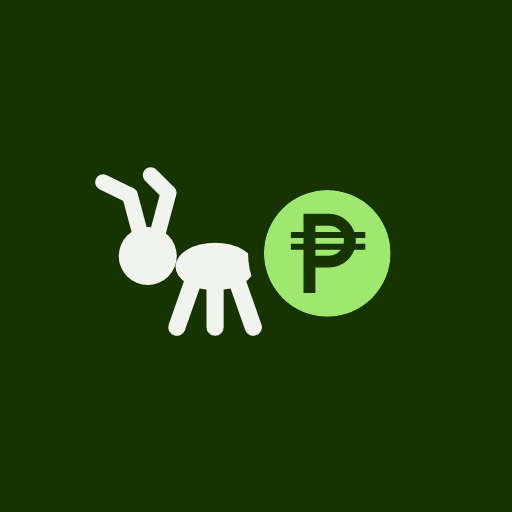
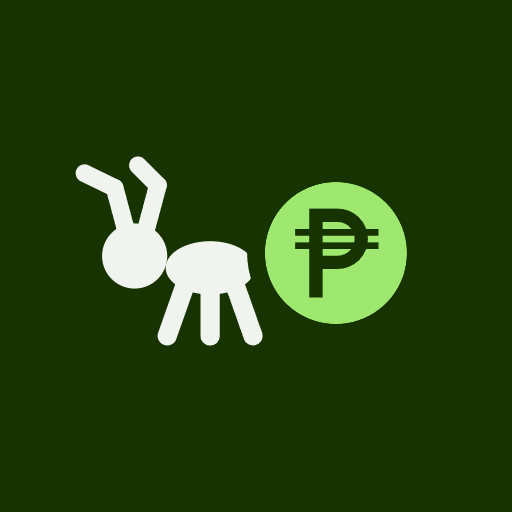
feat(pwa): hold a branded launch screen until the app draws
Opening the installed app dropped from the phone's forest splash to an empty pale page while the code loaded. Keep the mark on forest until the first real screen, then fade. A larger maskable icon fills more of Android's splash.

diff --git a/frontend/index.html b/frontend/index.html
@@ -23,6 +23,28 @@
     <title>AntTipid</title>
   </head>
   <body>
+    <!-- The installed app's launch screen, carrying on from the phone's own splash. Styled in index.css (hidden in a browser tab). -->
+    <div id="launch" role="status" aria-label="Opening AntTipid">
+      <svg viewBox="0 0 256 256" width="200" height="200" aria-hidden="true">
+        <g transform="translate(17.92 17.92) scale(0.86)">
+          <g fill="var(--background)">
+            <path d="M24 128A22 22 0 1 1 68 128A22 22 0 1 1 24 128Z"/>
+            <path d="M67 136A30 18 0 1 1 127 136A30 18 0 1 1 67 136Z"/>
+            <path d="M45.8 108.45L38.3 80.45A6 6 0 0 0 26.7 83.55L34.2 111.55A6 6 0 0 0 45.8 108.45Z"/>
+            <path d="M35.13 76.61L14.63 66.61A6 6 0 0 0 9.37 77.39L29.87 87.39A6 6 0 0 0 35.13 76.61Z"/>
+            <path d="M59.8 110.55L67.51 81.77A6 6 0 0 0 55.92 78.66L48.2 107.45A6 6 0 0 0 59.8 110.55Z"/>
+            <path d="M65.96 75.97L52.45 62.47A6 6 0 0 0 43.96 70.95L57.47 84.46A6 6 0 0 0 65.96 75.97Z"/>
+            <path d="M73.87 145.84L61.87 179.84A6.5 6.5 0 0 0 74.13 184.16L86.13 150.16A6.5 6.5 0 0 0 73.87 145.84Z"/>
+            <path d="M90.5 148L90.5 182A6.5 6.5 0 0 0 103.5 182L103.5 148A6.5 6.5 0 0 0 90.5 148Z"/>
+            <path d="M107.87 150.16L119.87 184.16A6.5 6.5 0 0 0 132.13 179.84L120.13 145.84A6.5 6.5 0 0 0 107.87 150.16Z"/>
+          </g>
+          <path fill="var(--sidebar-primary)" d="M134 126A48 48 0 1 1 230 126A48 48 0 1 1 134 126Z"/>
+          <path fill="var(--primary)" fill-rule="evenodd" d="M122 126A60 60 0 1 1 242 126A60 60 0 1 1 122 126ZM134 126A48 48 0 1 0 230 126A48 48 0 1 0 134 126Z"/>
+          <path fill="var(--primary)" d="M164 96H173V156H164ZM164 96H183.2A20.4 20.4 0 0 1 183.2 136.8H164V127.8H183.2A11.4 11.4 0 0 0 183.2 105H164ZM154.4 109.8H210.8V114.3H154.4ZM154.4 118.8H210.8V123.3H154.4Z"/>
+        </g>
+      </svg>
+      <span class="launch-wait"><span></span></span>
+    </div>
     <div id="root"></div>
     <script type="module" src="/src/main.tsx"></script>
   </body>

diff --git a/frontend/src/index.css b/frontend/src/index.css
@@ -1045,3 +1045,51 @@
   html, body { background: white; }
   .page-thumb { display: none; }
 }
+
+/* The installed app's launch screen: the mark on the phone splash's forest, so opening never drops to an empty page.
+   It holds until the app draws something and then fades. Pure CSS, so a crash can't leave it up: an error screen
+   replaces #app, which counts as drawn. Browser tabs and browsers without :has() never see it. */
+#launch { display: none; }
+@media (display-mode: standalone) {
+  @supports selector(:has(*)) {
+    #launch {
+      position: fixed;
+      inset: 0;
+      z-index: 100;
+      display: grid;
+      place-items: center;
+      background: var(--primary);
+    }
+    /* Up by default, so it's there from the first paint, before the parser has reached #root. */
+    body:has(#root:not(:empty)):not(:has(#app:empty)) #launch {
+      opacity: 0;
+      visibility: hidden;
+      pointer-events: none;
+      transition: opacity 220ms cubic-bezier(0.16, 1, 0.3, 1), visibility 0s 220ms;
+    }
+  }
+}
+/* A quiet bar for slow connections only: a normal launch is over before it appears. */
+.launch-wait {
+  position: absolute;
+  top: calc(50% + 120px);
+  width: 72px;
+  height: 3px;
+  overflow: hidden;
+  border-radius: 2px;
+  background: color-mix(in oklab, var(--sidebar-primary) 22%, transparent);
+  animation: launch-wait-in 200ms ease-out 1.2s backwards;
+}
+.launch-wait > span {
+  display: block;
+  width: 24px;
+  height: 100%;
+  border-radius: 2px;
+  background: var(--sidebar-primary);
+  transform: translateX(24px);
+}
+@keyframes launch-wait-in { from { opacity: 0; } }
+@keyframes launch-wait-travel { from { transform: translateX(-24px); } to { transform: translateX(72px); } }
+@media (prefers-reduced-motion: no-preference) {
+  .launch-wait > span { animation: launch-wait-travel 1.1s cubic-bezier(0.45, 0, 0.55, 1) infinite; }
+}

diff --git a/frontend/src/main.tsx b/frontend/src/main.tsx
@@ -33,7 +33,8 @@ createRoot(document.getElementById('root')!).render(
       <ErrorBoundary>
         <AppStateProvider>
           <TooltipProvider>
-            <App />
+            {/* index.css holds the launch screen for as long as this is empty. */}
+            <div id="app" className="contents"><App /></div>
             <PageScrollbar />
             <Toaster position="top-center" theme="light" />
           </TooltipProvider>
